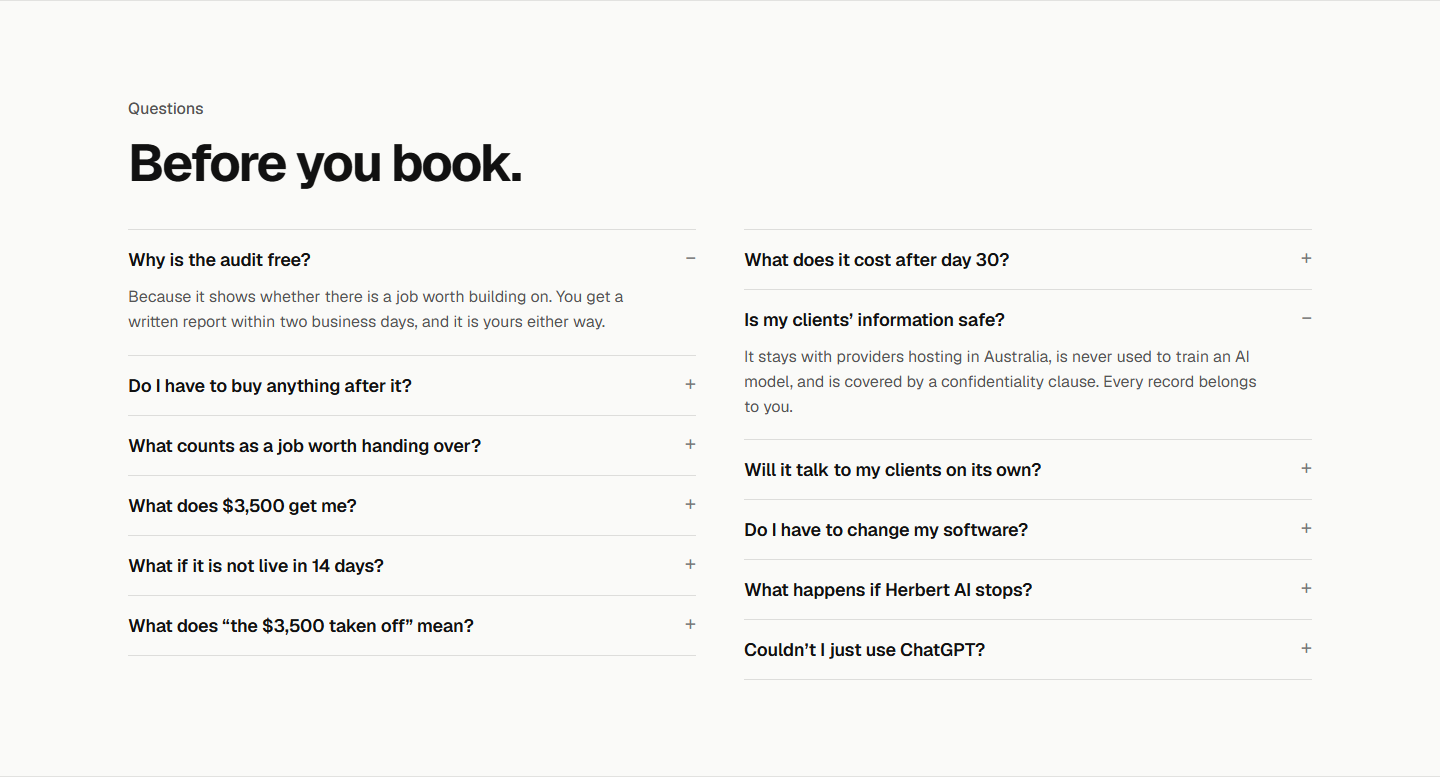
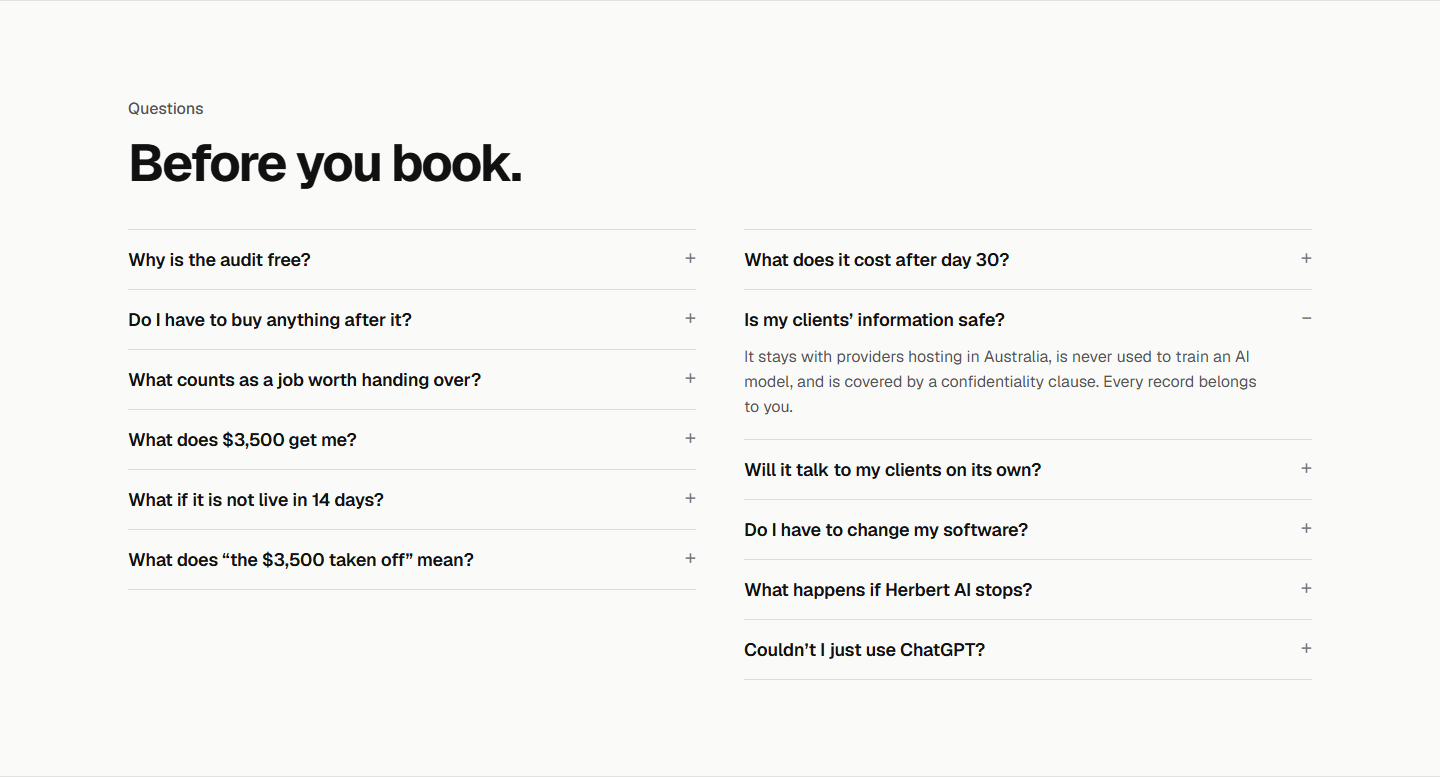
pilot questions: all closed on load, section 6 done
The five details as recommended; only the open state changed. Ledger records
the open page-list question and the ownership wording for the next session.

diff --git a/herbertai-website/docs/design/design-pass-site-2026-11-21-pilot-questions-built.html b/herbertai-website/docs/design/design-pass-site-2026-11-21-pilot-questions-built.html
@@ -2,5 +2,5 @@
 body{margin:0;background:#151515;color:#eee;font:14px/1.45 -apple-system,Helvetica,Arial,sans-serif;padding:36px 40px} h1{font-size:26px;margin:0 0 8px;font-weight:600} .intro{color:#aaa;max-width:1220px;margin:0 0 18px}
 .wrap{display:flex;flex-wrap:wrap;gap:24px;align-items:flex-start} figure{margin:0} figcaption{color:#aaa;margin-bottom:6px} img{display:block;border:1px solid #333}</style><body>
 <h1>/pilot section 6, Questions, as built (Will, 21 Nov 2026: A, folded)</h1>
-<p class="intro">The real page at 1440, 1280, 375 and 320. The twelve questions owners ask, folded, the first open; the FAQPage data carries the same twelve. questions shown 12, in FAQPage 12, identical True · open on load: 1 · click opens: open True, answer shown True, minus shown True.</p>
-<div class="wrap"><figure><figcaption>1440</figcaption><img src="assets-2026-11-21/pilot-questions-built-1440.png" style="width:920px"></figure><figure><figcaption>1440, a second question opened</figcaption><img src="assets-2026-11-21/pilot-questions-built-1440-opened.png" style="width:920px"></figure><figure><figcaption>1280</figcaption><img src="assets-2026-11-21/pilot-questions-built-1280.png" style="width:920px"></figure><figure><figcaption>375</figcaption><img src="assets-2026-11-21/pilot-questions-built-375.png" style="width:250px"></figure><figure><figcaption>320</figcaption><img src="assets-2026-11-21/pilot-questions-built-320.png" style="width:220px"></figure></div></body>
+<p class="intro">The real page at 1440, 1280, 375 and 320. The twelve questions owners ask, folded, all closed on load; the FAQPage data carries the same twelve. questions shown 12, in FAQPage 12, identical True · open on load: 0 · click opens: open True, answer shown True, minus shown True.</p>
+<div class="wrap"><figure><figcaption>1440</figcaption><img src="assets-2026-11-21/pilot-questions-built-1440.png" style="width:920px"></figure><figure><figcaption>1440, one question opened</figcaption><img src="assets-2026-11-21/pilot-questions-built-1440-opened.png" style="width:920px"></figure><figure><figcaption>1280</figcaption><img src="assets-2026-11-21/pilot-questions-built-1280.png" style="width:920px"></figure><figure><figcaption>375</figcaption><img src="assets-2026-11-21/pilot-questions-built-375.png" style="width:250px"></figure><figure><figcaption>320</figcaption><img src="assets-2026-11-21/pilot-questions-built-320.png" style="width:220px"></figure></div></body>

diff --git a/herbertai-website/src/app/components/site/pilot-questions.js b/herbertai-website/src/app/components/site/pilot-questions.js
@@ -78,8 +78,11 @@ function List({ items, first, open, sign, phone }) {
 // phones). sign: 'plus', 'chevron', 'ring'. layout: 'two' (two runs of six),
 // 'groups' (the three runs under their names), 'one' (one column). phone: 'all'
 // (twelve rows), 'three' (three rows, then the other nine behind one fold),
-// 'small' (questions a size down on phones).
-export default function PilotQuestions({ items = QUESTIONS, open = 'first', sign = 'plus', layout = 'two', phone = 'all' }) {
+// 'small' (questions a size down on phones). Will, 21 Nov 2026, the details
+// ("Yep, recommended": 1, 2, 1, 1, 1): the heading kept, every question closed
+// on load so the two runs end level, plus and minus, two runs of six, twelve
+// rows on phones.
+export default function PilotQuestions({ items = QUESTIONS, open = 'none', sign = 'plus', layout = 'two', phone = 'all' }) {
   const half = Math.ceil(items.length / 2)
   const cols = layout === 'groups'
     ? [[GROUPS[0], GROUPS[1]], [GROUPS[2]]].map((gs) => gs.map(([name, s, e]) => [name, items.slice(s, e)]))

diff --git a/herbertai-website/src/app/components/lab/PilotQuestionsDetails.js b/herbertai-website/src/app/components/lab/PilotQuestionsDetails.js
@@ -27,8 +27,8 @@ export const DETAILS = [
   ['d1-1', 'Detail 1 of 5, the heading. 1, as built: Before you book.', { heading: 'Before you book.' }],
   ['d1-2', 'Detail 1 of 5, the heading. 2: What’s the catch?', { heading: 'What’s the catch?' }],
   ['d1-3', 'Detail 1 of 5, the heading. 3: Before you give it 45 minutes.', { heading: 'Before you give it 45 minutes.' }],
-  ['d2-1', 'Detail 2 of 5, open on load. 1, as built: the first question open', {}],
-  ['d2-2', 'Detail 2 of 5, open on load. 2: all closed', { open: 'none' }],
+  ['d2-1', 'Detail 2 of 5, open on load. 1, as first built: the first question open', { open: 'first' }],
+  ['d2-2', 'Detail 2 of 5, open on load. 2: all closed (picked)', { open: 'none' }],
   ['d2-3', 'Detail 2 of 5, open on load. 3: every answer open on laptops, folded on phones', { open: 'laptop' }],
   ['d3-1', 'Detail 3 of 5, the sign. 1, as built: plus and minus', {}],
   ['d3-2', 'Detail 3 of 5, the sign. 2: a chevron that points up when open', { sign: 'chevron' }],

diff --git a/herbertai-website/docs/design/design-pass-site-2026-11-21-pilot-questions-built.py b/herbertai-website/docs/design/design-pass-site-2026-11-21-pilot-questions-built.py
@@ -1,4 +1,5 @@
-# /pilot section 6, Questions, as built (Will, 21 Nov 2026: "A, folded"). Checks
+# /pilot section 6, Questions, as built (Will, 21 Nov 2026: "A, folded", then
+# the details, "Yep, recommended": every question closed on load). Checks
 # the real page at 1440, 1280, 375 and 320, motion on and off: no overflow, no
 # page or console errors, no word alone on a line in the section, the FAQPage
 # data carrying the same twelve questions the section shows, and a closed
@@ -67,12 +68,12 @@ async def main():
     print("errors:", errs or "none"); print("overflow:", over or "none"); print("tidy:", tidy or "clean")
     for f in facts: print(f)
     shots = [("1440", 920), ("1440-opened", 920), ("1280", 920), ("375", 250), ("320", 220)]
-    imgs = "".join(f'<figure><figcaption>{k.replace("-opened", ", a second question opened")}</figcaption><img src="assets-2026-11-21/pilot-questions-built-{k}.png" style="width:{w}px"></figure>' for k, w in shots)
+    imgs = "".join(f'<figure><figcaption>{k.replace("-opened", ", one question opened")}</figcaption><img src="assets-2026-11-21/pilot-questions-built-{k}.png" style="width:{w}px"></figure>' for k, w in shots)
     html = f"""<!doctype html><meta charset=utf-8><title>/pilot Questions, as built</title><style>
 body{{margin:0;background:#151515;color:#eee;font:14px/1.45 -apple-system,Helvetica,Arial,sans-serif;padding:36px 40px}} h1{{font-size:26px;margin:0 0 8px;font-weight:600}} .intro{{color:#aaa;max-width:1220px;margin:0 0 18px}}
 .wrap{{display:flex;flex-wrap:wrap;gap:24px;align-items:flex-start}} figure{{margin:0}} figcaption{{color:#aaa;margin-bottom:6px}} img{{display:block;border:1px solid #333}}</style><body>
 <h1>/pilot section 6, Questions, as built (Will, 21 Nov 2026: A, folded)</h1>
-<p class="intro">The real page at 1440, 1280, 375 and 320. The twelve questions owners ask, folded, the first open; the FAQPage data carries the same twelve. {' · '.join(facts)}.</p>
+<p class="intro">The real page at 1440, 1280, 375 and 320. The twelve questions owners ask, folded, all closed on load; the FAQPage data carries the same twelve. {' · '.join(facts)}.</p>
 <div class="wrap">{imgs}</div></body>"""
     f = D / "design-pass-site-2026-11-21-pilot-questions-built.html"; f.write_text(html, encoding="utf-8")
     async with async_playwright() as p:

diff --git a/herbertai-website/docs/design/design-pass-site-2026-09.md b/herbertai-website/docs/design/design-pass-site-2026-09.md
@@ -29,7 +29,7 @@ done. Updated in the same commit as the work.
 | 4. Whole page | [x] | Signed off 20 Oct 2026: Founder at the bottom, the footer on the charter, the hero board holds its height, OS and Products fill the screen |
 | 5. Phones | [x] | Signed off 20 Oct 2026: every homepage section works as a phone design |
 | 6. Words and claims | [x] | Homepage claims list cleared 20 Oct 2026; the cold read of every page built 30 Oct 2026 (Will: "All 69"), the charter’s wording test now a cold read (rules 1, 8, 9) |
-| 7. Other pages | [~] | Under way on /pilot: sections 1 to 5 done (5 on 16 Nov 2026), section 6 built 21 Nov 2026 (details drawn), then section 7 and /pilot’s phases 4 to 6. Still to come: industry pages on the new slugs, the AI Employees page, a Herbert Reach page, /pricing, /about (incl. "Why one builder") |
+| 7. Other pages | [~] | /pilot: sections 1 to 6 done (6 on 21 Nov 2026); section 7 (Back up to the form) and /pilot’s phases 4 to 6 still to run. **The page list itself is open** (Will, 21 Nov 2026: "I think we need to reduce the number of pages I have on my site ... I don't think I need an industries or a what gets built page. I think I need to do a real tidy up"): settle which pages stay before any further per-page pass. Until then nothing else here is planned: the industry pages, the AI Employees page, a Herbert Reach page, /pricing and /about were the earlier list |
 | 8. Walkthrough and ship | [ ] | preview/runs-itself merged to main on 30 Oct 2026 at Will’s word ("Merge"), mid phase 7, to ship the tone pass; the lab is live on production, noindex and unlinked, and is removed at this phase |
 
 Phase 3, section by section (facts, options, pick, build, details):
@@ -2359,7 +2359,7 @@ memory records the third slip. From here /pilot runs section by section:
 | 3. How it works | [x] | [x] | [x] | [x] | [x] | Done 30 Oct 2026: "Your first AI employee in four steps." over four stops, each its time and its title only (no rows, no prices), the second stop "Two business days" |
 | 4. What it fixes | [x] | [x] | [x] | [x] | [x] | Done 4 Nov 2026 after the redo (Will: "B"): today’s six jobs and sentences, each under an employee that does that job; fit check, words re-read and tidy all recorded below |
 | 5. What comes next (was After the pilot) | [x] | [x] | [x] | [x] | [x] | Details built 16 Nov 2026 (Will: "1,2,2,3"); the first-three line dropped from /pilot and /pricing while the Proof lane runs (Will: "Drop it from both"). Done 16 Nov |
-| 6. Questions | [x] | [x] | [x] | [x] | [~] | Will (21 Nov 2026): "A, folded", built the same day; details drawn, five three ways each (heading, open on load, the sign, order and runs, phones), waiting on Will’s numbers |
+| 6. Questions | [x] | [x] | [x] | [x] | [x] | Done 21 Nov 2026: "A, folded", then the five details ("Yep, recommended": heading kept, all closed on load, plus and minus, two runs of six, twelve rows on phones) |
 | 7. Back to the form | [ ] | [ ] | [ ] | [x] | [ ] | Built from the skeleton only |
 
 Next: the hero’s remaining details, 1 the form side, 2 spacing, 3 the phone
@@ -3261,7 +3261,7 @@ own systems", /pricing "You own what gets built ... An AI operating system
 runs on your own systems from day one", and /pilot section 5's third stage,
 "on your own systems". The options are worded to the agreement.
 
-## [~] /pilot section 6, Questions: built, details drawn (21 Nov 2026)
+## [x] /pilot section 6, Questions: built, details applied, done (21 Nov 2026)
 
 Will (21 Nov 2026): "A, folded".
 
@@ -3299,4 +3299,51 @@ section's own component (props added for the lab, the page uses the defaults):
    nine behind one fold, 3 questions a size down.
 Tidy: measured at 1440, 1280, 375 and 320, clean. Sheet:
 `design-pass-site-2026-11-21-pilot-questions-details.png`.
+
+Will (21 Nov 2026), on the five details: "Yep, recommended". That is 1, 2, 1,
+1, 1: the heading "Before you book." kept; every question closed on load, so
+the two runs end level; plus and minus; two runs of six; twelve rows on
+phones. Only detail 2 changed the build (the component's `open` now defaults
+to none). Verified on /pilot at 1440, 1280, 375 and 320, motion on and off: no
+overflow, no errors, no word alone on a line, none open on load, twelve shown
+and twelve in the FAQPage data, a click opens a question and turns its plus to
+a minus. Sheet refreshed: `design-pass-site-2026-11-21-pilot-questions-built.png`.
+Section 6 is done.
+
+## [ ] Open after 21 Nov 2026: fewer pages, and one claim
+
+Two things Will raised or left open as he closed the session that did section
+6. Neither is acted on.
+
+1. Fewer pages. Will (21 Nov 2026): "I think we need to reduce the number of
+   pages I have on my site. I think I have the home page, how it works, and
+   then FAQ. Like what gets built, industries. I don't think I need an
+   industries or a what gets built page. I think I need to do a real tidy up."
+   He named /industries (and its /industries/[slug] pages) and /services (what
+   gets built) as not needed, and the home page, /pilot (how it works) and /faq
+   as the ones he thinks of. Not settled: /pricing, /work, /about, /contact,
+   /start, the three footer SEO pages and the /lp/* and /demo/* pages were not
+   mentioned. It is a direction, not a decision: the next session settles the
+   list with him first (every route in `src/app/**/page.js`, what each is for,
+   what links to it, what search traffic it has), and only then removes
+   anything. Retiring a route means a redirect in `next.config.mjs`, and the
+   route out of `seo-routes.json`, `public/llms.txt`, the header and footer
+   links and `schema.js`. The homepage's Industries section and the charter's
+   eight-section list both point at the industry pages, so they are part of the
+   same call.
+2. Who owns the code and where it runs (first raised 16 Nov, unanswered). The
+   services agreement says Herbert AI keeps ownership of the underlying code
+   (7.3; the client gets a licence that never ends, 7.2) and hosts a build on
+   its own accounts while support runs (7.4). /faq ("Who owns the code and
+   data? You do. Builds run on your own systems"), /pricing ("You own what gets
+   built ... An AI operating system runs on your own systems from day one") and
+   /pilot section 5's third stage ("on your own systems") say otherwise.
+   Section 6's answers follow the agreement ("your own accounts").
+   Recommended: the three lines change to match the agreement.
+
+/pilot itself: section 7 (Back up to the form) has had no options or details
+pass, and the page's phases 4 to 6 (whole page, phones, words and claims) have
+not run. The preview branch holds everything since 16 Nov (section 4 set B,
+section 5's details, the first-three offer dropped, section 6) and has not
+been merged to main.
 

diff --git a/herbertai-website/docs/design/CHARTER.md b/herbertai-website/docs/design/CHARTER.md
@@ -251,8 +251,8 @@ moves. As built, 30 Oct 2026, numbered on the page in
    Done 16 Nov.
 6. Questions: "Before you book." and the twelve questions owners ask before
    booking, folded, each answer checked against the services agreement and the
-   same list in the FAQPage data. Built 21 Nov (Will: "A, folded"); details
-   drawn, not yet picked.
+   same list in the FAQPage data, all closed on load, two runs of six. Built
+   21 Nov (Will: "A, folded"), details the same day ("Yep, recommended"). Done.
 7. Back up to the form: "Ready? Book your free AI audit". Built from the
    skeleton; details pass not yet run.
 
